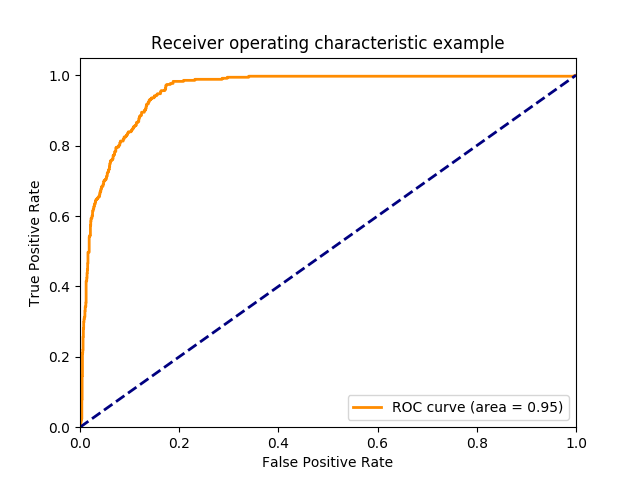
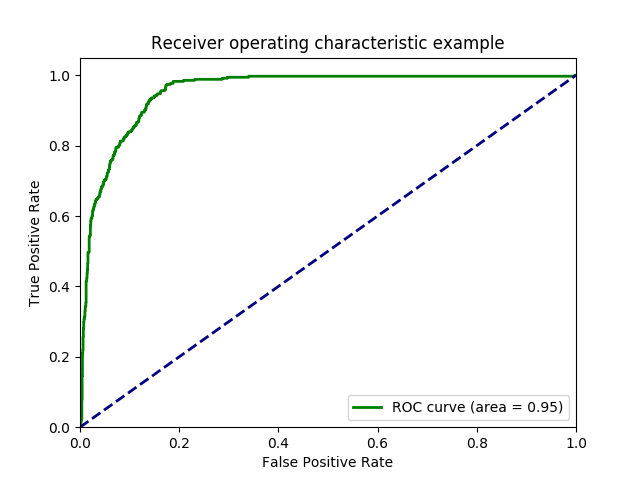
update GUI

diff --git a/Codes/templates/result.html b/Codes/templates/result.html
@@ -31,13 +31,12 @@
 	.plot-zone {
 	  display: flex;
 	  flex-flow: row wrap;
-	  width: 80vw;
+	  width: 100%;
 	  margin: auto;
 	}
 	
 	.plot {
-	  width: 23%;
-	  padding: 1%;
+	  width: 25%;  
 	}
 
     .output-video {
@@ -67,13 +66,30 @@
       bottom: 0;
       width: 100%;
     }
-	
+
+    .navbar {
+      background-color: #1d2223;
+      position: -webkit-sticky; /* Safari */
+      position: sticky; /* Set the navbar to sticky position */
+      top: 0; /* Position the navbar at the top of the page */
+      width: 100%; /* Full width */
+      display: flex;
+      z-index: 1000;
+      justify-content: center;
+    }
+	.navbar b {
+      font-weight: 800;
+      color: #32FF32;
+      padding: 14px 16px;
+      text-decoration: none;
+    }
   </style>
 </head>
 
 <body>
 <image class="img-ground" src="static/asset/result-image.jpg">
 
+<div class="navbar"> <b>VIDEO OUTPUT</b> </div>
 <div class="video-zone">
 	<video class="output-video" controls>
 		<source src="{{ video_path }}" type='video/mp4'/>
@@ -81,6 +97,7 @@
 	</video>
 </div>
 
+<div class="navbar"> <b>SCORE GRAPHS</b> </div>
 <div class="plot-zone">
 	{% for i in list_plots %}
 		<image class="plot" src="{{ i }}">
@@ -88,6 +105,7 @@
 </div>
 
 {% if dataset!="upload" %}
+<div class="navbar"> <b>ROC CURVE GRAPH</b> </div>
 <div class="roc-zone">
 	<image class="roc" src="static/my_graph_figure.png">
 </div>

diff --git a/Codes/app.py b/Codes/app.py
@@ -71,5 +71,8 @@ def home():
         list_plots = [ plot_path + '/' + i for i in os.listdir(plot_path)]
         print ("list plot:", list_plots)
         return render_template('result.html', video_path=out_video, list_plots=list_plots, dataset=dataset)
+    
+    #list_plots = [ plot_path + '/' + i for i in os.listdir(plot_path)]
+    #return render_template('result.html', video_path='static/videos/ped2.mp4', list_plots=list_plots, dataset='ped2')
 if __name__ == '__main__':
     app.run()

diff --git a/Codes/app_evaluate.py b/Codes/app_evaluate.py
@@ -447,7 +447,7 @@ def compute_auc(loss_file):
         
         fig = plt.figure()
         lw = 2
-        plt.plot(fpr, tpr, color='darkorange', lw=lw, label='ROC curve (area = %0.2f)' % auc)
+        plt.plot(fpr, tpr, color='green', lw=lw, label='ROC curve (area = %0.2f)' % auc)
         plt.plot([0, 1], [0, 1], color='navy', lw=lw, linestyle='--')
         plt.xlim([0.0, 1.0])
         plt.ylim([0.0, 1.05])

diff --git a/Codes/app_inference.py b/Codes/app_inference.py
@@ -278,7 +278,7 @@ with tf.Session(config=config) as sess:
             #print ("dat_shape", dat.shape)
             fig = plt.figure()
             lw = 2
-            plt.plot(np.arange(4, length), dat[4:], color='darkorange', lw=lw)
+            plt.plot(np.arange(4, length), dat[4:], color='green', lw=lw)
             plt.xlim([0, length])
             plt.ylim([0.00, 1.00])
             plt.xlabel('Frame')
